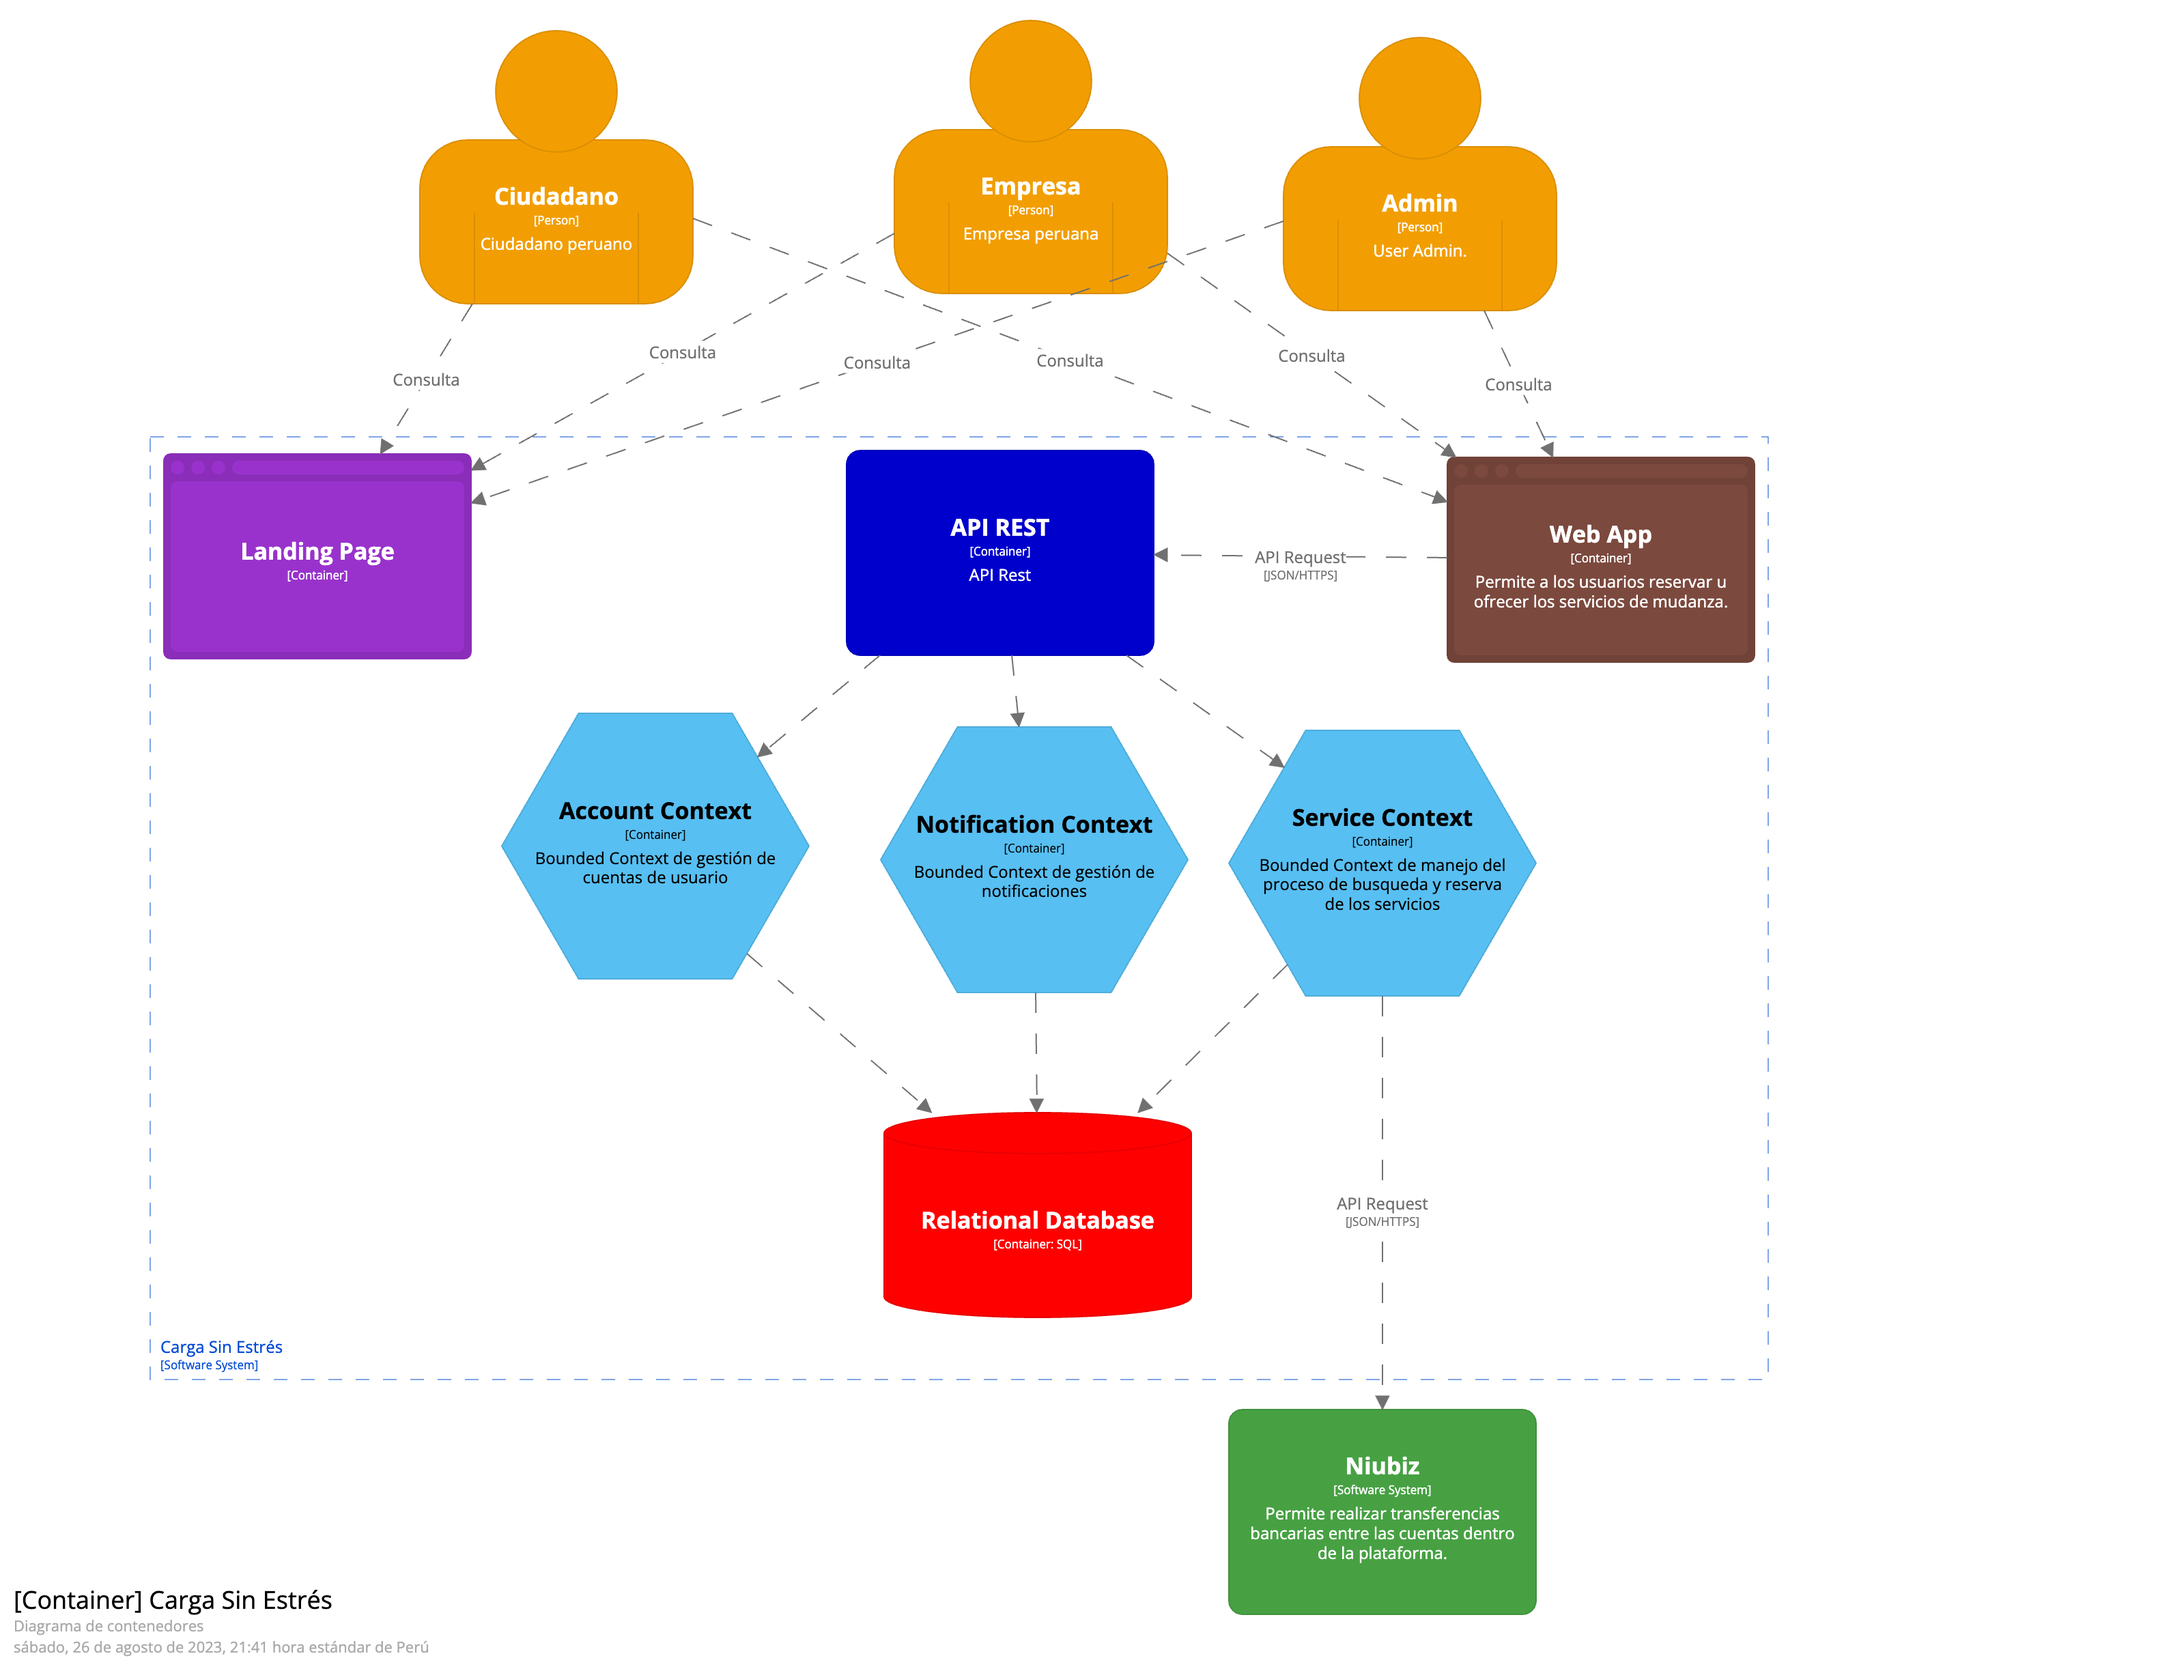
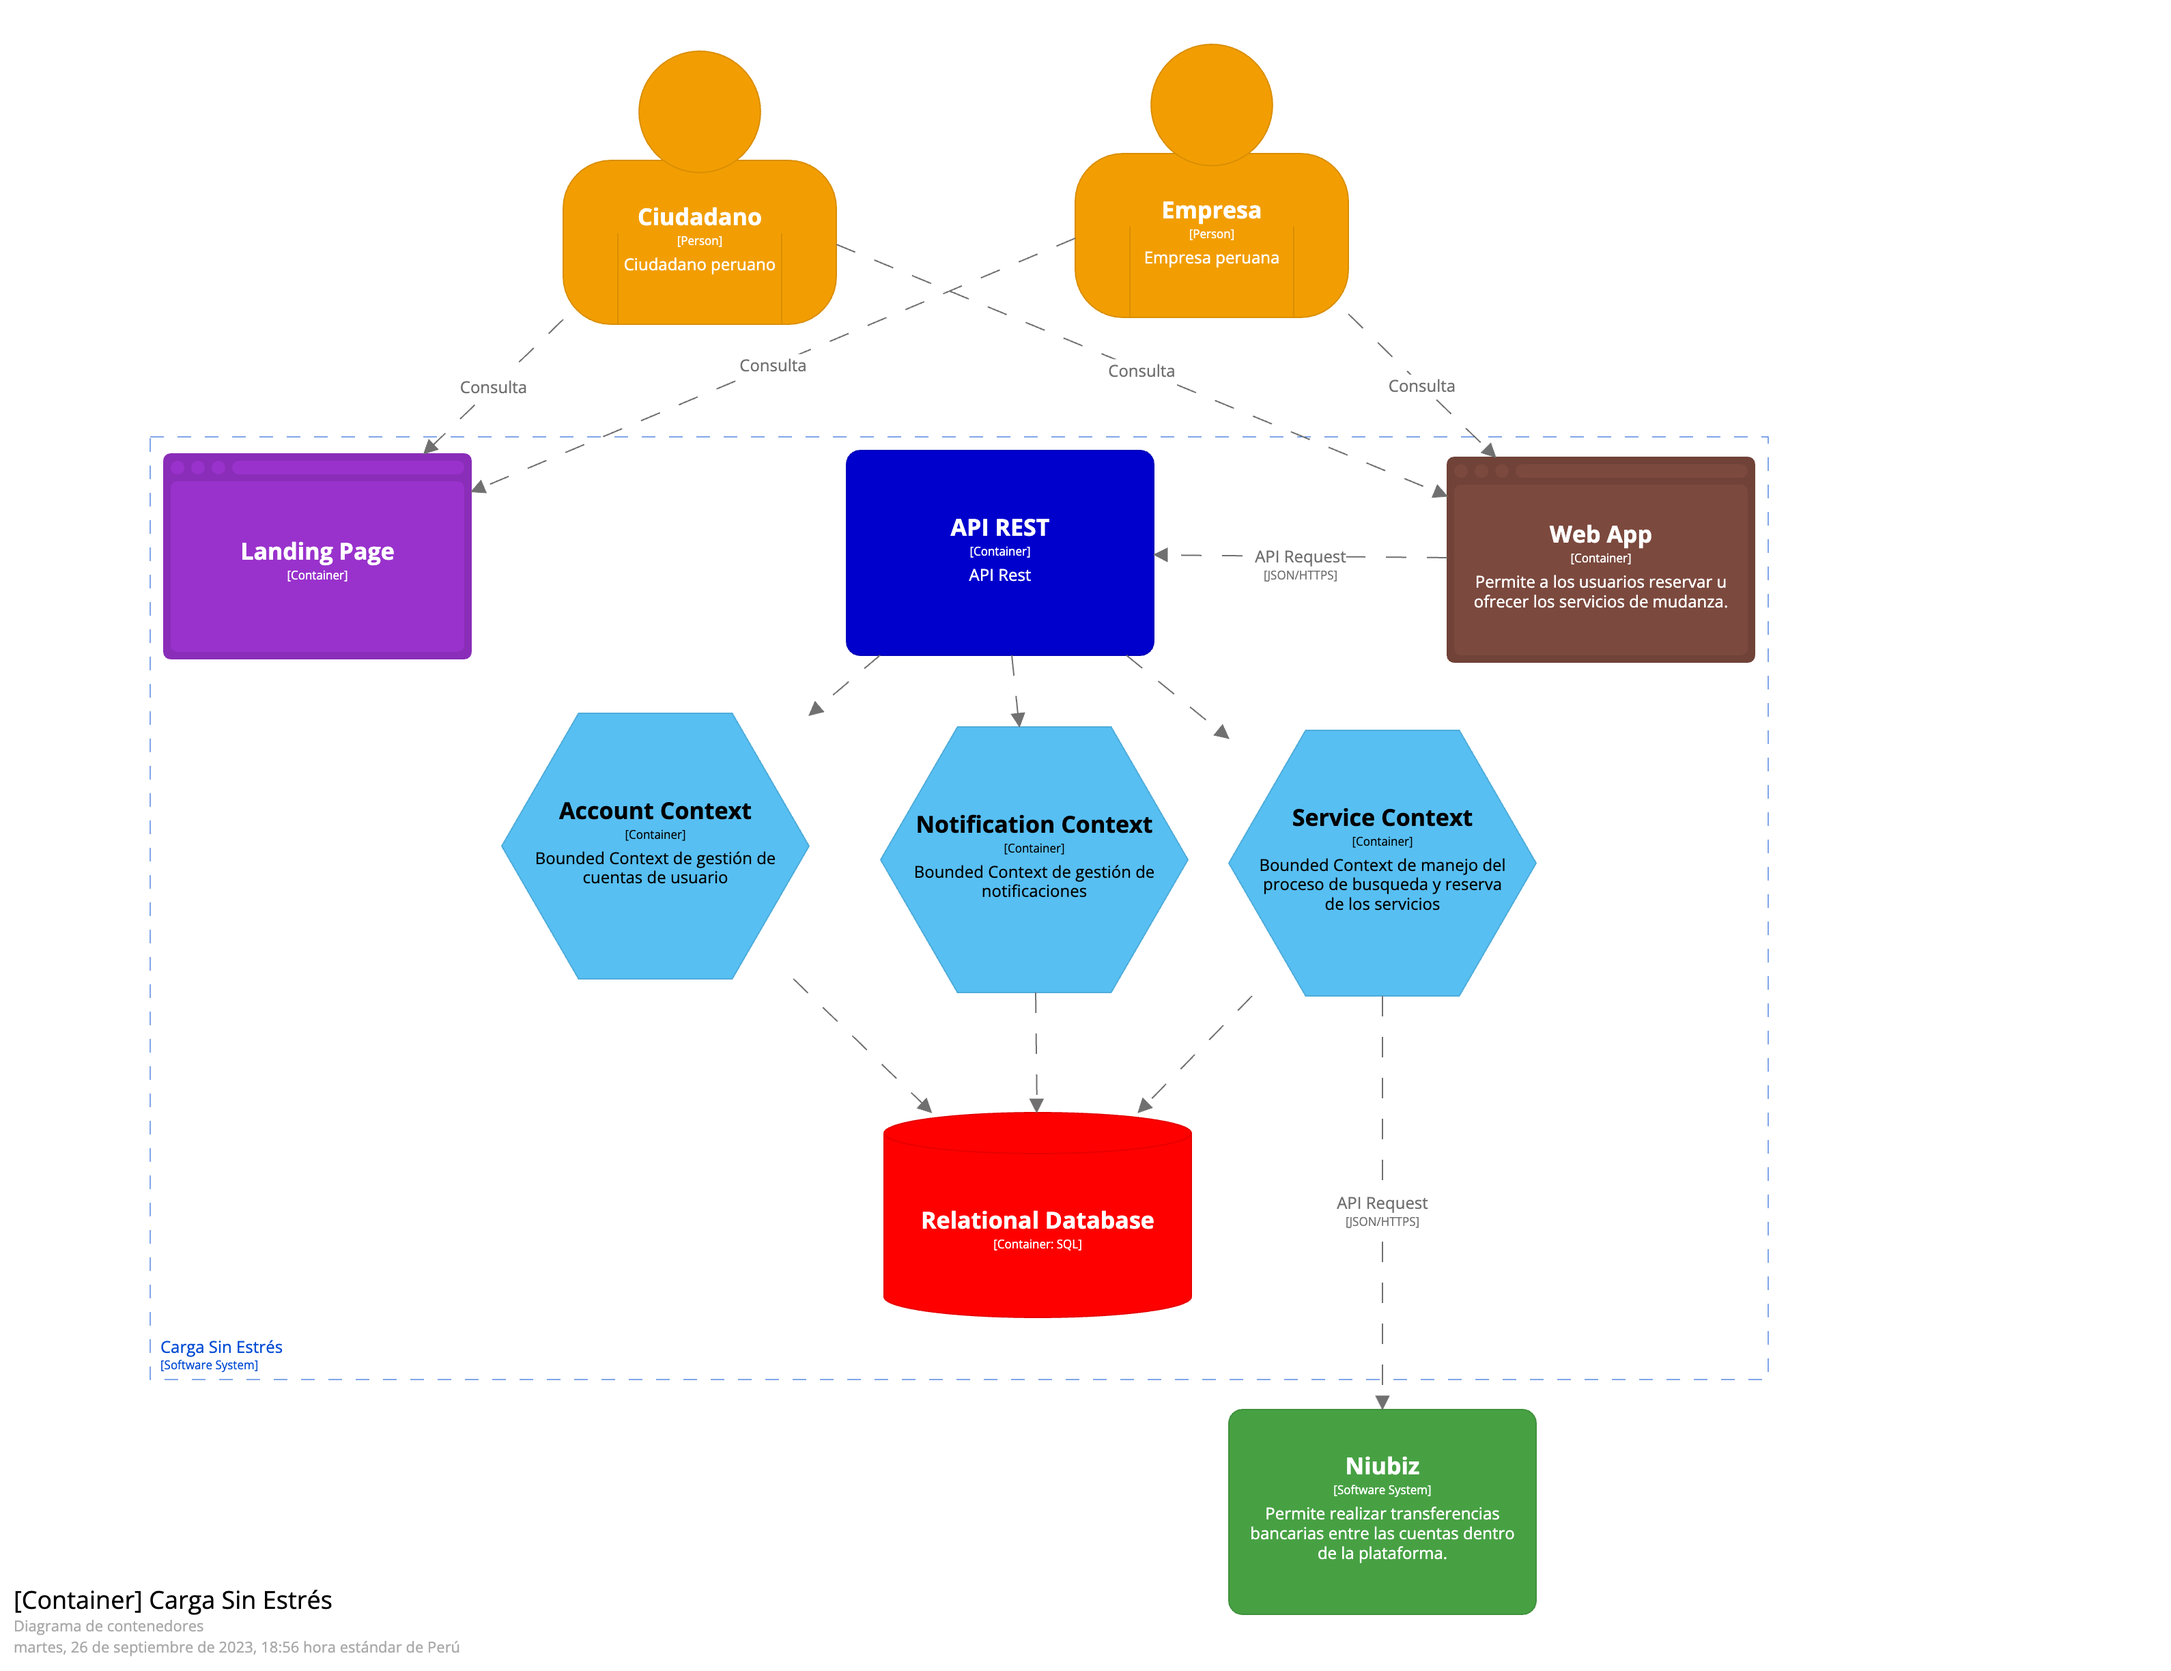
Update diagrama c4

diff --git a/Informe/Informe_capitulo3y4.md b/Informe/Informe_capitulo3y4.md
@@ -190,15 +190,23 @@ Los diagramas c4 se realizaron con Structurizr.   Enlace:[https://www.structuriz
 
 ### 4.6.1. Software Architecture Context Diagram.  
 
+En el diagrama de contexto se observa la relación de tipos de usuarios que interactúan con la aplicación, los cuales son "Ciudadano" y "Empresa". Así como los sistemas externos que se utilizan para el funcionamiento de la aplicación como el sistema de pago Niubiz.  
+
 ![Context Diagram](https://github.com/LuceroObispoRios/Grupo1_WS52/blob/main/Informe/Imagenes/Contexto.png?raw=true)  
 
 ### 4.6.2. Software Architecture Container Diagrams.  
 
+En el diagrama de contenedores se observa la relación de los componentes dentro de nuestra aplicación, como el landing page, la aplicación web, los contextos, la base de datos y el API REST.  
+
 ![Container Diagram](https://github.com/LuceroObispoRios/Grupo1_WS52/blob/main/Informe/Imagenes/Contenedor.png?raw=true)  
 
 ### 4.6.3. Software Architecture Components Diagrams.  
-**Service Context**
 
+Los componentes de nuestra aplicación se dividen en 3 contextos, y los patrones utilizados son los siguientes:  
+El patrón **Repository** utilizado para separar la capa de acceso a datos de la capa de la lógica de negocio. Además, ayuda a decidir si debe recuperar datos de una red o usar resultados almacenados en caché de una base de datos local, lo que mejora la gestión de datos y la eficiencia de la aplicación.  
+El patrón **Gateway** utilizado para actuar como un intermediario entre nuestra aplicación y un sistema de pago externo Niubiz. Este enfoque nos proporciona una capa de abstracción que simplifica la comunicación y gestión de pagos, al tiempo que garantiza la seguridad y la flexibilidad en nuestras transacciones financieras.   
+
+**Service Context**  
 ![Service Component Diagram](https://github.com/LuceroObispoRios/Grupo1_WS52/blob/main/Informe/Imagenes/ServiceComponents.png?raw=true)  
 
 **Account Context**
